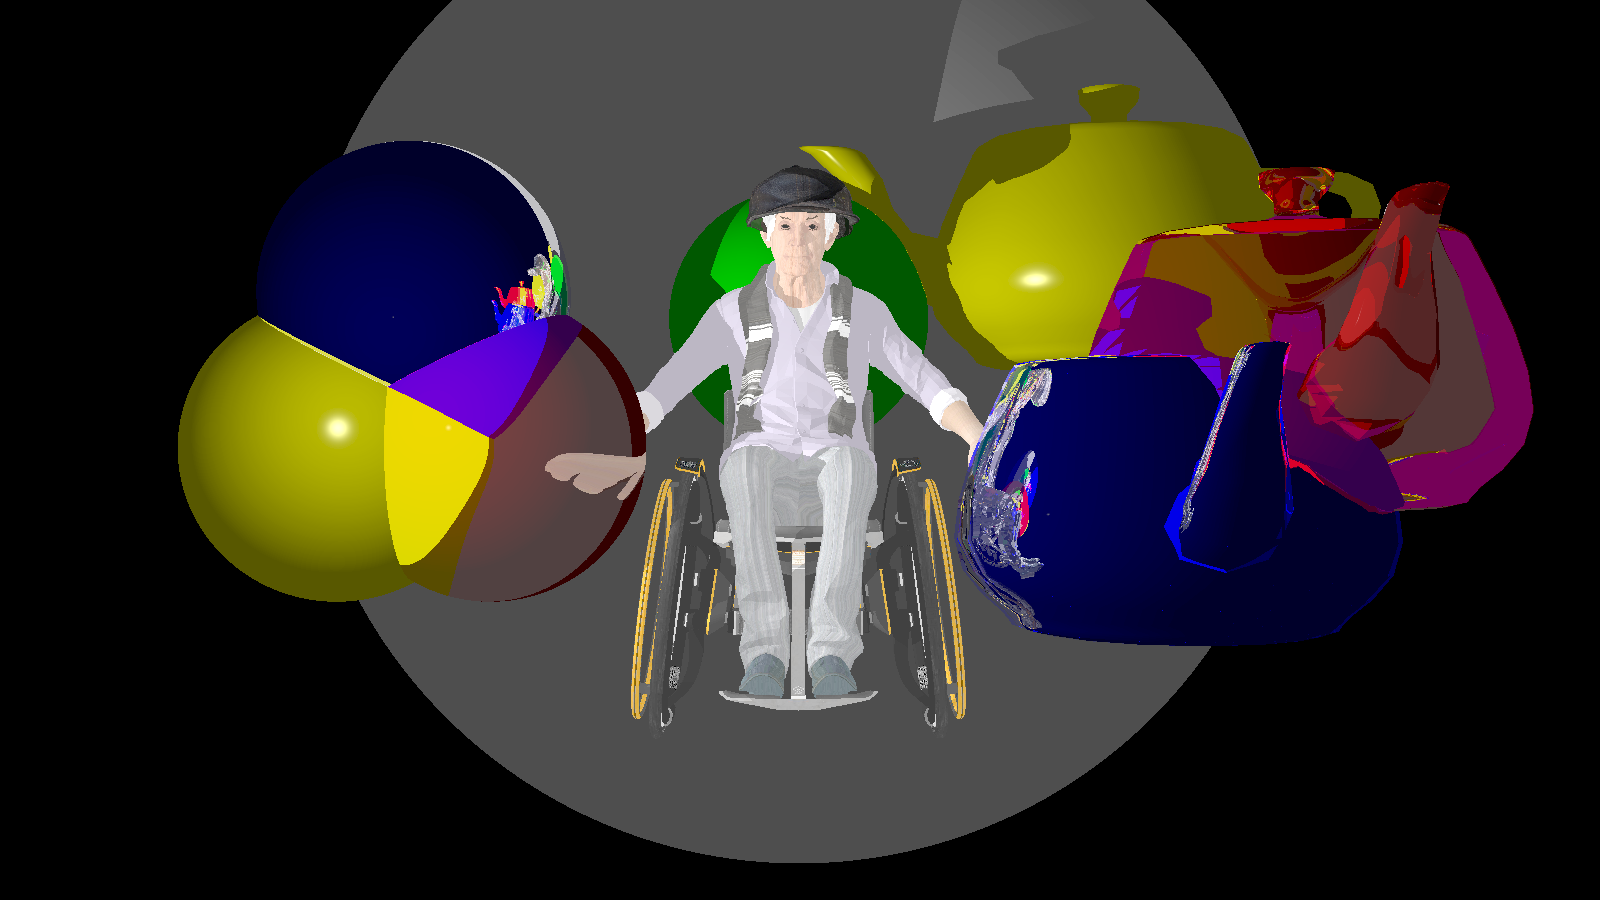
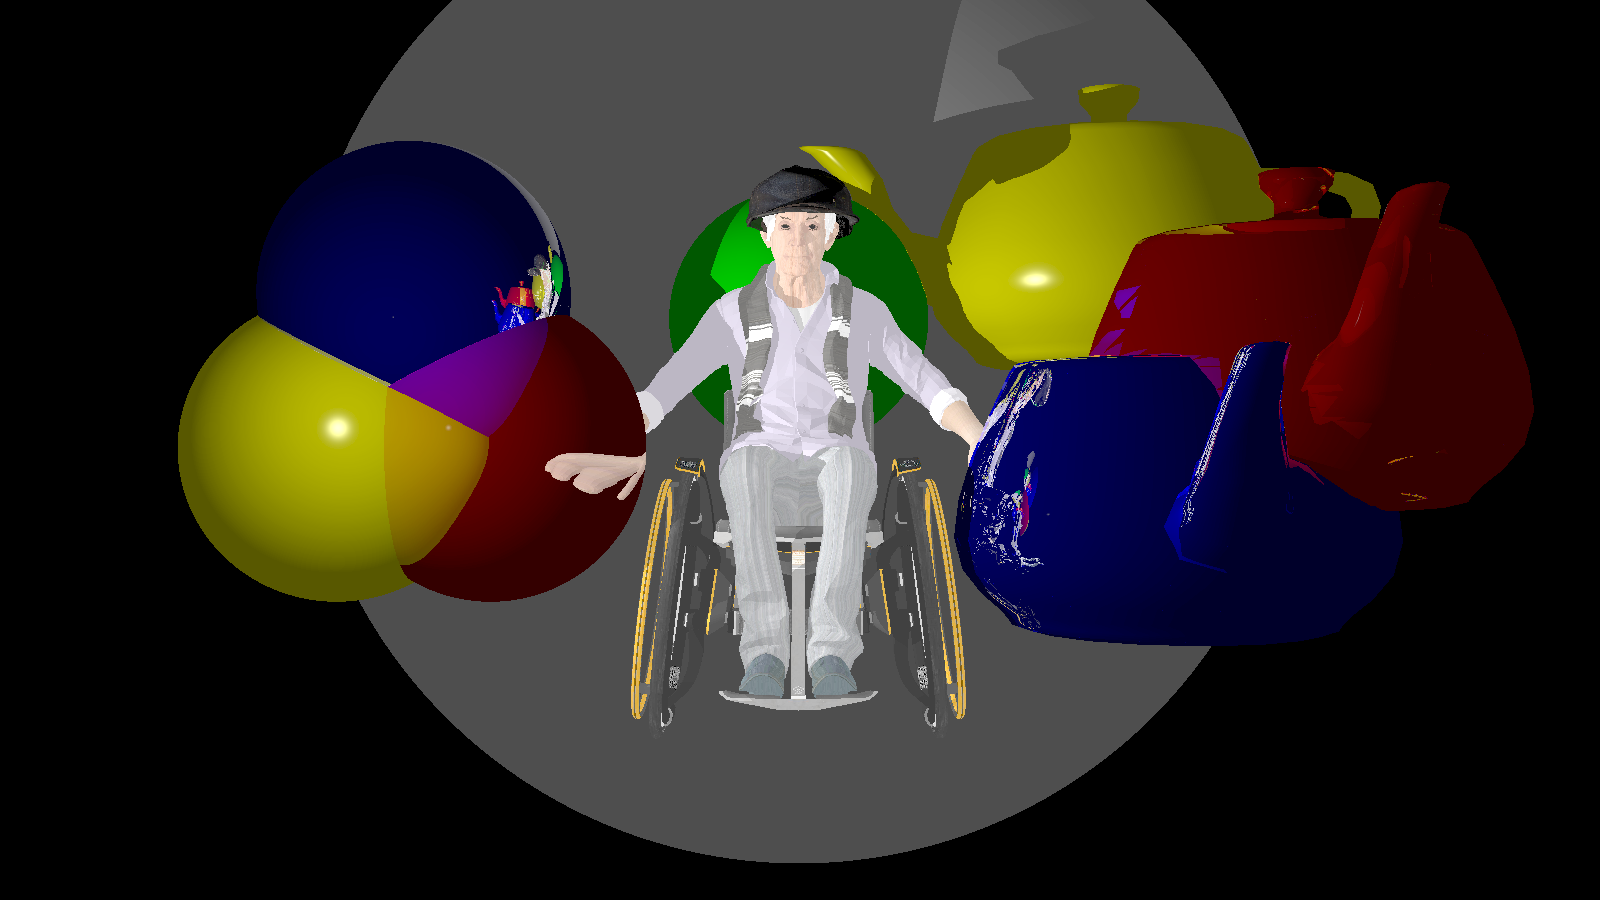
Added PHONG illumination model to my reflections and refractions

diff --git a/RaytracerV10/src/edu/up/isgc/raytracer/world/Scene.java b/RaytracerV10/src/edu/up/isgc/raytracer/world/Scene.java
@@ -1,5 +1,6 @@
 package edu.up.isgc.raytracer.world;
 
+import edu.up.isgc.raytracer.lighting.Material;
 import edu.up.isgc.raytracer.optimization.BBTree;
 import edu.up.isgc.raytracer.optimization.BoundingBox;
 import edu.up.isgc.raytracer.Intersection;
@@ -157,14 +158,61 @@ public class Scene {
         if (hit != null && hit.object != null) {
             // Get base color of object hit
             //Color localColor = hit.object.getColor(); // Or calculate with lighting, if available
+            Vector3D lD = null;
+            float lightDistance = 0;
+            float ks = 0.0f;
+            float p = 1000f;
+            float ka = 0.1f;
+
+            if (hit.object.getHasMaterial()) {
+                Material material = hit.object.getMaterial();
+                ks = material.getSpecular();
+                p = material.getShininess();
+                ka = material.getAmbient();
+            }
+
+            float lambertian = 0;
+            float blinn = 0;
+            float ambientIntensity = ka * Light.getAmbientLight();
+            Color finalColor = Color.BLACK;
+
             for(Light l : Light.getLights()) {
                 if(isInShadow(hit.point, hit.getNormal(), l, ignoreShape)) {
                     shadowFound = true;
                     break;
+                }else{
+                    if (l.type().equals("directional")) {
+                        lD = l.getDirection().normalize().scale(1);
+                    } else if (l.type().equals("point") || l.type().equals("spot")) {
+                        lD = l.getDirection(hit.point).normalize().scale(-1);
+                        lightDistance = (float)Vector3D.subtract(l.getPosition(), hit.point).value;
+                    }
+
+                    Vector3D N = hit.getNormal();
+                    lambertian = (float) Math.max(N.dot(lD) * l.calculateAttenuation(hit.point), 0.0);
+                    Vector3D h = Vector3D.subtract(Camera.getCameraPosition(), hit.point).normalize().add(lD).normalize();
+                    blinn = (float) (ks * Math.pow(Math.max(N.dot(h), 0.0), p));
+
+                    Color ambient = Light.shine(l.getColor(), hit.color, ambientIntensity, true);
+                    Color diffuse = Light.shine(l.getColor(), hit.color, lambertian, true);
+                    Color specular = Light.shine(l.getColor(), hit.color, blinn, false);
+
+                    Color lightContribution = new Color(
+                            clamp(ambient.getRed() + diffuse.getRed() + specular.getRed(), 0, 255),
+                            clamp(ambient.getGreen() + diffuse.getGreen() + specular.getGreen(), 0, 255),
+                            clamp(ambient.getBlue() + diffuse.getBlue() + specular.getBlue(), 0, 255)
+                    );
+
+                    finalColor = new Color(
+                            clamp(finalColor.getRed() + lightContribution.getRed(), 0, 255),
+                            clamp(finalColor.getGreen() + lightContribution.getGreen(), 0, 255),
+                            clamp(finalColor.getBlue() + lightContribution.getBlue(), 0, 255)
+                    );
                 }
+
             }
 
-            Color localColor = !shadowFound? hit.color : new Color((int) (hit.color.getRed()*0.1), (int) (hit.color.getGreen()*0.1), (int) (hit.color.getBlue()*0.1)); // Or calculate with lighting, if available
+            Color localColor = !shadowFound? finalColor : new Color((int) (finalColor.getRed()*0.1), (int) (finalColor.getGreen()*0.1), (int) (finalColor.getBlue()*0.1)); // Or calculate with lighting, if available
 
             // Recurse
             Color reflectedColor = castReflection(hit.point, hit.getNormal(), hit.object, recursionLimit - 1);
@@ -229,14 +277,61 @@ public class Scene {
             float fresnel = Light.schlick(cosTheta, (float)ignoreShape.refraction);
             
             //Color localColor = hit.object.getColor();
+            Vector3D lD = null;
+            float lightDistance = 0;
+            float ks = 0.0f;
+            float p = 1000f;
+            float ka = 0.1f;
+
+            if (hit.object.getHasMaterial()) {
+                Material material = hit.object.getMaterial();
+                ks = material.getSpecular();
+                p = material.getShininess();
+                ka = material.getAmbient();
+            }
+
+            float lambertian = 0;
+            float blinn = 0;
+            float ambientIntensity = ka * Light.getAmbientLight();
+            Color finalColor = Color.BLACK;
+
             for(Light l : Light.getLights()) {
                 if(isInShadow(hit.point, hit.getNormal(), l, ignoreShape)) {
                     shadowFound = true;
                     break;
+                }else{
+                    if (l.type().equals("directional")) {
+                        lD = l.getDirection().normalize().scale(1);
+                    } else if (l.type().equals("point") || l.type().equals("spot")) {
+                        lD = l.getDirection(hit.point).normalize().scale(-1);
+                        lightDistance = (float)Vector3D.subtract(l.getPosition(), hit.point).value;
+                    }
+
+                    Vector3D N = hit.getNormal();
+                    lambertian = (float) Math.max(N.dot(lD) * l.calculateAttenuation(hit.point), 0.0);
+                    Vector3D h = Vector3D.subtract(Camera.getCameraPosition(), hit.point).normalize().add(lD).normalize();
+                    blinn = (float) (ks * Math.pow(Math.max(N.dot(h), 0.0), p));
+
+                    Color ambient = Light.shine(l.getColor(), hit.color, ambientIntensity, true);
+                    Color diffuse = Light.shine(l.getColor(), hit.color, lambertian, true);
+                    Color specular = Light.shine(l.getColor(), hit.color, blinn, false);
+
+                    Color lightContribution = new Color(
+                            clamp(ambient.getRed() + diffuse.getRed() + specular.getRed(), 0, 255),
+                            clamp(ambient.getGreen() + diffuse.getGreen() + specular.getGreen(), 0, 255),
+                            clamp(ambient.getBlue() + diffuse.getBlue() + specular.getBlue(), 0, 255)
+                    );
+
+                    finalColor = new Color(
+                            clamp(finalColor.getRed() + lightContribution.getRed(), 0, 255),
+                            clamp(finalColor.getGreen() + lightContribution.getGreen(), 0, 255),
+                            clamp(finalColor.getBlue() + lightContribution.getBlue(), 0, 255)
+                    );
                 }
+
             }
 
-            Color localColor = !shadowFound? hit.color : new Color((int) (hit.color.getRed()*0.1), (int) (hit.color.getGreen()*0.1), (int) (hit.color.getBlue()*0.1)); // Or calculate with lighting, if available
+            Color localColor = !shadowFound? finalColor : new Color((int) (finalColor.getRed()*0.1), (int) (finalColor.getGreen()*0.1), (int) (finalColor.getBlue()*0.1)); // Or calculate with lighting, if available
 
             //Color localColor = ignoreShape.getColor();
             Color refractedColor = castRefraction(hit.point, hit.getNormal(), hit.object, recursionLimit - 1);
